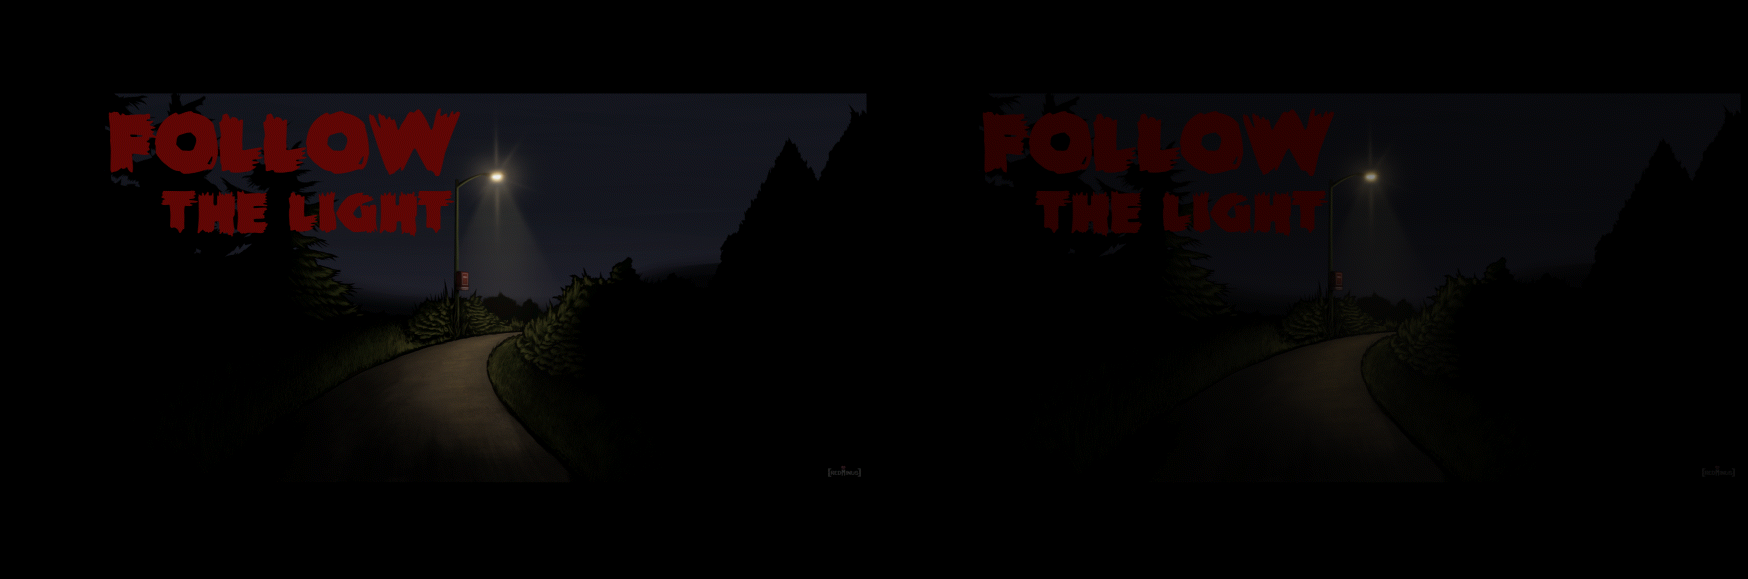
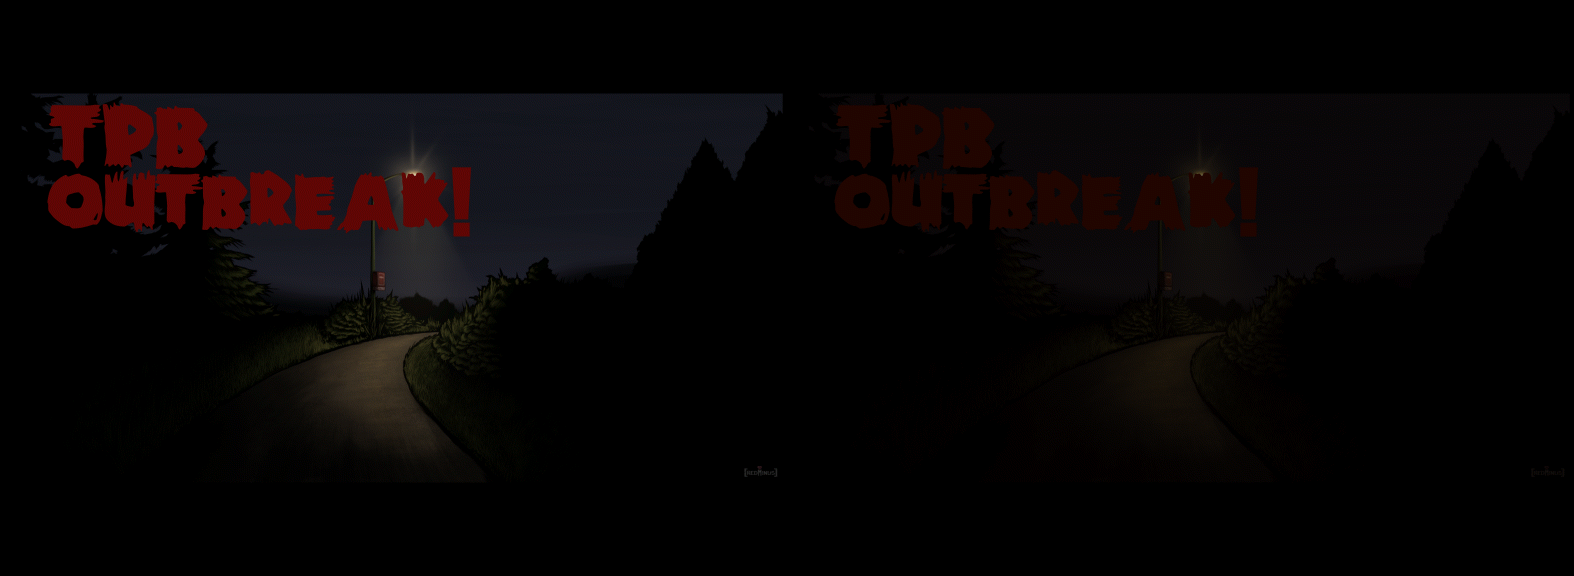
Overall polish, changed the game title and added new title/gameover assets.  Ready for piloting!

diff --git a/src/states/GameOverState.js b/src/states/GameOverState.js
@@ -22,6 +22,8 @@ function GameOverState() {
 				index = 0
 			}
 		});
+		
+		jaws.on_keydown("esc",  function() { jaws.switchGameState(MenuState) });
 		jaws.on_keydown(["enter", "space"], function() {
 			if (items[index] == "Try Again") {
 				jaws.switchGameState(ChooseGameState);
@@ -32,8 +34,8 @@ function GameOverState() {
 			}
 		});
 		title_anim = new jaws.Animation({
-			sprite_sheet : "./assets/art/title_animation.png",
-			frame_size : [874, 579],
+			sprite_sheet : "./assets/art/gameover_animation.png",
+			frame_size : [787, 576],
 			loop : true
 		});
 		title_img = new jaws.Sprite({
@@ -68,7 +70,7 @@ function GameOverState() {
 			jaws.context.lineWidth = 20;
 			jaws.context.fillStyle = (i == index) ? "#E5F361" : "#62625F";
 			jaws.context.strokeStyle = "rgba(200,200,200,0.0)";
-			jaws.context.fillText(items[i], jaws.width / 2.5, jaws.height / 1.8 + i * (75));
+			jaws.context.fillText(items[i], jaws.width / 2.5, jaws.height / 1.2 + i * (75));
 		}
 	}
 }

diff --git a/index.html b/index.html
@@ -7,7 +7,7 @@
 	    <link type="text/css" rel="stylesheet" href="style.css" />
 		<link href='http://fonts.googleapis.com/css?family=Denk+One' rel='stylesheet' type='text/css'>
 		<link href='http://fonts.googleapis.com/css?family=Geo' rel='stylesheet' type='text/css'>
-		<title>Follow the Light!</title>
+		<title>TPB Outbreak!</title>
 	</head>
 
 	<script src="main.js"></script>
@@ -33,8 +33,8 @@
 	    FPS: <span id="fps"></span>. Move with arrows. Select with Return.
 	
 	    <div id="info">
-	      <h1>Follow the Light!</h1>
-	      <b>Follow the Light</b> was developed by Rogelio E. Cardona-Rivera, for use by Regina Tyree in her
+	      <h1>TPB Outbreak!</h1>
+	      <b>TPB Outbreak!</b> was developed by Rogelio E. Cardona-Rivera, for use by Regina Tyree in her
 	      experiment on the Theory of Planned Behavior.
 	    </div >
 	

diff --git a/src/states/PlayState.js b/src/states/PlayState.js
@@ -64,16 +64,15 @@ function PlayState() {
   	tile_map.push(grass_blocks);
   	
   	/* Player setup. */
-  	player = new Player(500,1000);
+  	player = new Player(1152,864);
   	
     /* Player HUD setup. */
     player_hud = new HUD(player,gametype);
     
     /* Prepare random item generation */
-    generate_random_item(5); //every 5 seconds
+    generate_random_item(3); //every 5 seconds
        
-	//jaws.on_keydown("esc",  function() { jaws.switchGameState(MenuState) })
-    jaws.preventDefaultKeys(["up", "down", "left", "right", "space"])
+    jaws.preventDefaultKeys(["up", "down", "left", "right", "space"]);
     
   }
 

diff --git a/src/states/ChooseGameState.js b/src/states/ChooseGameState.js
@@ -30,9 +30,11 @@ function ChooseGameState() {
 			if (items[index] == "Delayed Text Feedback") {jaws.switchGameState(PlayState, {fps : 60},4);}
 		});
 		
+		jaws.on_keydown("esc",  function() { jaws.switchGameState(MenuState) });
+		
 		title_anim = new jaws.Animation({
 			sprite_sheet : "./assets/art/title_animation.png",
-			frame_size : [874, 579],
+			frame_size : [787, 576],
 			loop : true
 		});
 		title_img = new jaws.Sprite({

diff --git a/main.js b/main.js
@@ -2,6 +2,7 @@ function init() {
 
 	/* Importing Title assets */
 	jaws.assets.add("./assets/art/title_animation.png");
+	jaws.assets.add("./assets/art/gameover_animation.png");
 
 	/* Importing Player assets */
 	jaws.assets.add("./assets/art/player_LR_spritesheet_zombies.png");

diff --git a/src/states/MenuState.js b/src/states/MenuState.js
@@ -35,7 +35,7 @@ function MenuState() {
 		
 		title_anim = new jaws.Animation({
 			sprite_sheet : "./assets/art/title_animation.png",
-			frame_size : [874, 579],
+			frame_size : [787, 576],
 			loop : true
 		});
 		title_img = new jaws.Sprite({
